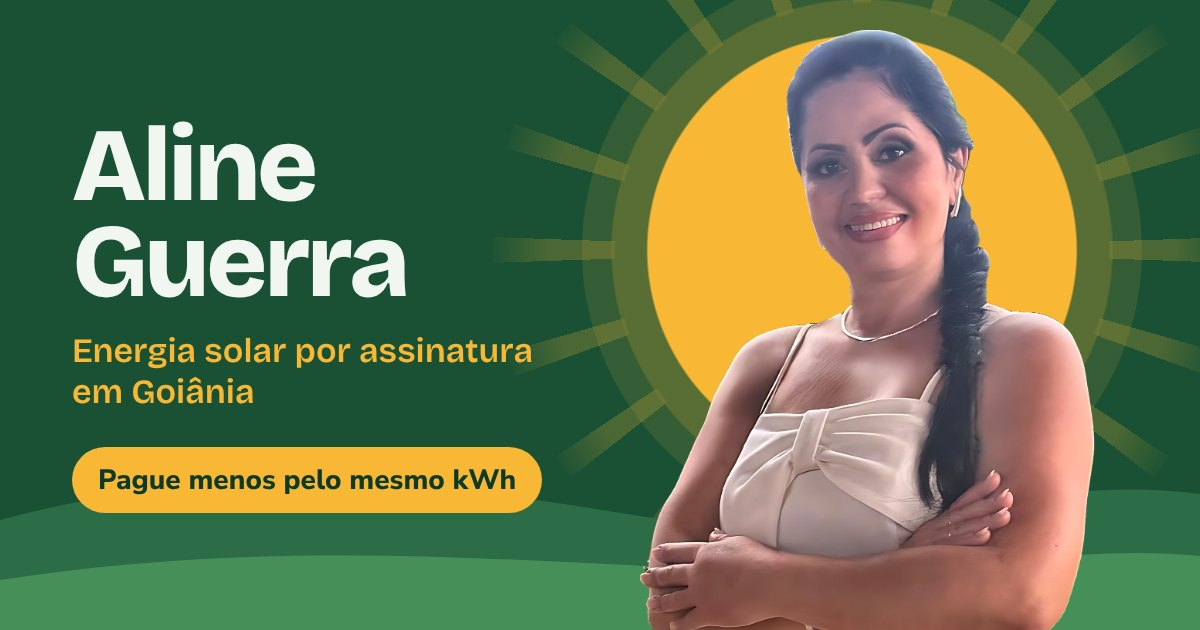
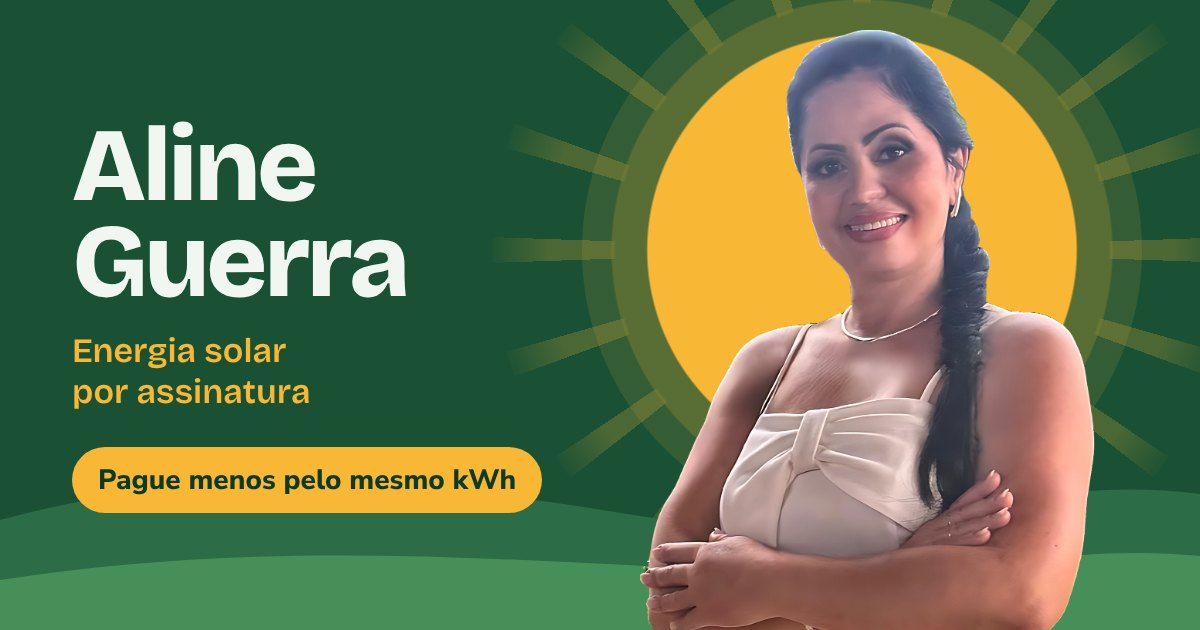
Add files via upload

Changed region(s): [[0.0617, 0.5429, 0.4625, 0.6635]]

diff --git a/index.html b/index.html
@@ -10,7 +10,7 @@
 <meta property="og:description" content="Pague menos pelo mesmo kWh, sem investir nada e sem instalar placas.">
 <meta property="og:type" content="website">
 <meta property="og:url" content="https://gui2k04.github.io/aline-guerra/">
-<meta property="og:image" content="https://gui2k04.github.io/aline-guerra/preview.jpg?v=6">
+<meta property="og:image" content="https://gui2k04.github.io/aline-guerra/preview.jpg?v=7">
 <meta property="og:image:width" content="1200">
 <meta property="og:image:height" content="630">
 <meta property="og:image:alt" content="Aline Guerra, energia solar por assinatura em Goiânia">
@@ -145,10 +145,16 @@
   .lane.grid .bar i{background:var(--grid);width:100%}
   .lane.solar .price{color:var(--leaf)}
   .lane.solar .bar{background:var(--sun-soft)}
-  .lane.solar .bar i{background:var(--sun);width:var(--w,70%)}
+  .lane.solar .bar{position:relative}
+  .lane.solar .bar::before{
+    content:"";position:absolute;left:0;top:0;bottom:0;width:var(--w2,80%);
+    border-radius:999px;background:oklch(0.82 0.155 80 / .45);transform-origin:left center;
+  }
+  .lane.solar .bar i{position:relative;background:var(--sun);width:var(--w,70%)}
   @media (prefers-reduced-motion:no-preference){
     .race.on .bar i{animation:grow 1.1s var(--ease-out) both}
     .race.on .lane.solar .bar i{animation-delay:.3s}
+    .race.on .lane.solar .bar::before{animation:grow 1.1s var(--ease-out) both .3s}
   }
   @keyframes grow{from{transform:scaleX(0)}to{transform:scaleX(1)}}
   .race-note{margin-top:20px;display:flex;gap:12px;align-items:flex-start;font-size:16px}
@@ -196,15 +202,6 @@
   .win p{font-weight:700;font-size:15.5px}
   .win .big{display:block;margin-top:2px;font-family:var(--display);font-weight:800;font-size:clamp(34px,10vw,44px);line-height:1.05;letter-spacing:-.03em;color:var(--leaf)}
   .win .year{margin-top:8px;color:var(--on-sun);font-weight:600}
-  .amount input{
-    width:100%;min-width:0;border:0;background:transparent;color:var(--ink);
-    font:inherit;font-size:50px;line-height:1;letter-spacing:-.03em;padding:0;
-    border-bottom:2px dashed var(--line);
-  }
-  .amount input:focus{outline:none;border-bottom-color:var(--leaf)}
-  .note{padding:16px 18px;margin-top:16px;background:var(--sun-soft);border-radius:18px;font-weight:700;color:var(--on-sun)}
-  .note strong{display:block;font-family:var(--display);font-weight:800;font-size:22px;line-height:1.15;color:var(--leaf);margin-bottom:4px}
-  .lane.solar .bar{background:linear-gradient(to right, transparent 0 70%, oklch(0.82 0.155 80 / .45) 70% 80%, var(--sun-soft) 80%)}
   .fine{margin-top:14px;font-size:13.5px;color:var(--muted);line-height:1.45}
   .calc-band .btn{margin-top:36px}
 
@@ -296,7 +293,7 @@
 <header class="hero">
   <div class="wrap">
     <h1>Aline Guerra</h1>
-    <p class="role">Energia solar por assinatura em Goiânia</p>
+    <p class="role">Energia solar por assinatura</p>
   </div>
   <div class="stage">
     <div class="sun" aria-hidden="true"></div>
@@ -305,8 +302,8 @@
       <path d="M0 78 C90 52 170 64 250 74 S360 56 400 66 V120 H0Z"/>
     </svg>
     <picture class="person">
-      <source srcset="aline.webp?v=6" type="image/webp">
-      <img src="aline.png?v=6" alt="Aline Guerra sorrindo, de vestido branco" width="1290" height="1555" fetchpriority="high" decoding="async">
+      <source srcset="aline.webp?v=7" type="image/webp">
+      <img src="aline.png?v=7" alt="Aline Guerra sorrindo, de vestido branco" width="1290" height="1555" fetchpriority="high" decoding="async">
     </picture>
     <svg class="front-wave" viewBox="0 0 400 56" preserveAspectRatio="none" aria-hidden="true">
       <path d="M0 56 V30 C80 10 160 6 220 18 S340 40 400 22 V56Z"/>
@@ -374,22 +371,20 @@
   <section class="calc-band" id="calculo" aria-labelledby="t-calc">
     <div class="wrap">
       <h2 id="t-calc">Quanto você economizaria</h2>
-      <p class="lead">Arraste ou digite o valor da sua fatura de luz hoje.</p>
+      <p class="lead">Arraste até o valor da sua fatura de luz hoje.</p>
       <div class="bill">
         <div class="stamp" aria-hidden="true">Energia<br>do sol</div>
-        <label for="conta-in">Sua fatura de luz hoje</label>
+        <label for="conta">Sua fatura de luz hoje</label>
         <span class="hint">Valor médio por mês</span>
-        <div class="amount"><span>R$</span><input id="conta-in" class="tnum" type="text" inputmode="numeric" autocomplete="off" value="600" aria-describedby="calc-fine"></div>
-        <input type="range" id="conta" min="0" max="1000" step="1" value="463" aria-label="Valor da fatura" aria-describedby="calc-fine">
+        <div class="amount"><span>R$</span><output id="conta-out" for="conta" class="tnum">600</output></div>
+        <input type="range" id="conta" min="0" max="1000" step="1" value="233" aria-label="Valor da fatura" aria-describedby="calc-fine">
         <div class="chips" role="group" aria-label="Valores comuns de fatura">
-          <button class="chip" type="button" data-v="400">R$ 400</button>
-          <button class="chip" type="button" data-v="800">R$ 800</button>
-          <button class="chip" type="button" data-v="2000">R$ 2 mil</button>
-          <button class="chip" type="button" data-v="7000">R$ 7 mil</button>
+          <button class="chip" type="button" data-v="300">R$ 300</button>
+          <button class="chip" type="button" data-v="600">R$ 600</button>
+          <button class="chip" type="button" data-v="1000">R$ 1.000</button>
+          <button class="chip" type="button" data-v="5000">R$ 5.000</button>
         </div>
         <div class="result" aria-live="polite">
-          <div class="note" id="r-msg" hidden></div>
-          <div id="r-ok">
           <dl>
             <dt>Energia que você usa</dt><dd class="tnum" id="r-kwh">522 kWh</dd>
             <dt>Hoje você paga</dt><dd class="tnum strike" id="r-hoje">R$ 600</dd>
@@ -399,7 +394,6 @@
             <p>Você deixa de pagar</p>
             <strong class="big tnum" id="r-mes">R$ 120 por mês</strong>
             <p class="year">Em um ano, são <strong class="tnum" id="r-ano">R$ 1.440</strong> que ficam com você.</p>
-          </div>
           </div>
         </div>
         <p class="fine" id="calc-fine">Valores aproximados. O desconto exato depende da sua fatura e sai na simulação, sem compromisso.</p>
@@ -414,7 +408,7 @@
 
   <div class="wrap">
     <section class="me" aria-labelledby="t-me">
-      <figure><picture><source srcset="vestido.webp?v=6" type="image/webp"><img src="vestido.jpg?v=6" alt="Aline Guerra de vestido branco" width="1290" height="1541" loading="lazy" decoding="async"></picture></figure>
+      <figure><picture><source srcset="vestido.webp?v=7" type="image/webp"><img src="vestido.jpg?v=7" alt="Aline Guerra de vestido branco" width="1290" height="1541" loading="lazy" decoding="async"></picture></figure>
       <h2 id="t-me">Oi, eu sou a Aline</h2>
       <p class="lead">Me chama no WhatsApp que eu explico como funciona e faço a simulação do seu desconto com você, sem compromisso.</p>
     </section>
@@ -477,13 +471,13 @@
     precoRede: 1.15,                    // R$ por kWh na fatura normal, com impostos
     descontoMin: 0.20,                  // faixa mostrada na comparação do kWh
     descontoMax: 0.30,
-    // Faixas de desconto da calculadora (as regras não aparecem para o cliente)
-    faturaMinima: 250,                  // abaixo disso não atende
+    // Faixas de desconto da calculadora (as regras não aparecem para o cliente).
+    // A régua vai de R$ 250 a R$ 10.000.
     faixas: [
-      { ate: 1000,  desconto: 0.20 },   // R$ 250 a R$ 1.000
-      { ate: 5000,  desconto: 0.22 },   // R$ 1.001 a R$ 5.000
+      { ate: 2000,  desconto: 0.20 },   // R$ 250 a R$ 2.000
+      { ate: 5000,  desconto: 0.22 },   // R$ 2.001 a R$ 5.000
       { ate: 10000, desconto: 0.25 }    // R$ 5.001 a R$ 10.000
-    ],                                  // acima de R$ 10.000: análise pela média de kWh
+    ],                                  // acima de R$ 10.000: análise pela média de kWh (fora da régua)
     msgContato: "Oi, Aline! Vi sua página e quero saber do desconto na minha fatura de luz.",
     msgSimular: "Oi, Aline! Quero simular meu desconto. Vou te mandar uma foto da minha fatura de luz.",
     // Depoimentos REAIS de clientes. Enquanto ficar vazio, a seção não aparece.
@@ -508,6 +502,7 @@
   $("p-solar").textContent = "R$ " + cents(CONFIG.precoRede * (1 - CONFIG.descontoMax)) + " a " + cents(CONFIG.precoRede * (1 - CONFIG.descontoMin));
   $("pct-txt").textContent = Math.round(CONFIG.descontoMin * 100) + "% a " + Math.round(CONFIG.descontoMax * 100) + "%";
   $("bar-solar").style.setProperty("--w", ((1 - CONFIG.descontoMax) * 100).toFixed(1) + "%");
+  $("bar-solar").parentElement.style.setProperty("--w2", ((1 - CONFIG.descontoMin) * 100).toFixed(1) + "%");
   if ("IntersectionObserver" in window) {
     const ro = new IntersectionObserver((es) => es.forEach((e) => {
       if (e.isIntersecting) { $("race").classList.add("on"); ro.disconnect(); }
@@ -516,10 +511,10 @@
   } else { $("race").classList.add("on"); }
 
   /* Calculadora
-     A régua não é linear: o começo vai de R$ 100 a R$ 1.000 com mais precisão,
-     e o fim chega a R$ 12.000. */
-  const range = $("conta"), input = $("conta-in"), chips = [...document.querySelectorAll(".chip")];
-  const pts = [[0,100],[100,250],[550,1000],[850,5000],[1000,12000]];
+     A régua não é linear: a primeira metade cobre R$ 250 a R$ 1.000 (onde está a
+     maioria das faturas) e o restante vai até R$ 10.000. */
+  const range = $("conta"), chips = [...document.querySelectorAll(".chip")];
+  const pts = [[0,250],[500,1000],[800,5000],[1000,10000]];
   const toValor = (pos) => {
     for (let i = 1; i < pts.length; i++) if (pos <= pts[i][0]) {
       const [p0,v0] = pts[i-1], [p1,v1] = pts[i];
@@ -530,7 +525,6 @@
     return pts[pts.length-1][1];
   };
   const toPos = (v) => {
-    v = Math.min(Math.max(v, pts[0][1]), pts[pts.length-1][1]);
     for (let i = 1; i < pts.length; i++) if (v <= pts[i][1]) {
       const [p0,v0] = pts[i-1], [p1,v1] = pts[i];
       return Math.round(p0 + (p1 - p0) * (v - v0) / (v1 - v0));
@@ -539,38 +533,22 @@
   };
   const descontoDe = (v) => {
     for (const f of CONFIG.faixas) if (v <= f.ate) return f.desconto;
-    return null;
+    return CONFIG.faixas[CONFIG.faixas.length - 1].desconto;
   };
   const show = (v) => {
-    const ok = $("r-ok"), msg = $("r-msg");
-    range.style.setProperty("--p", (range.value / 10) + "%");
-    range.setAttribute("aria-valuetext", brl(v) + " por mês");
-    chips.forEach((c) => c.setAttribute("aria-pressed", String(+c.dataset.v === v)));
-    if (!v || v < CONFIG.faturaMinima) {
-      ok.hidden = true; msg.hidden = false;
-      msg.innerHTML = "<strong>Atendemos faturas a partir de " + brl(CONFIG.faturaMinima) + "</strong>Se a sua fatura chega perto disso em alguns meses, me chama que eu olho com você.";
-      return;
-    }
-    const desconto = descontoDe(v);
-    if (desconto === null) {
-      ok.hidden = true; msg.hidden = false;
-      msg.innerHTML = "<strong>Fatura acima de " + brl(CONFIG.faixas[CONFIG.faixas.length-1].ate) + "</strong>Nesse caso eu faço uma análise pela média de kWh que você consome. Me mande sua fatura que eu calculo a sua economia.";
-      return;
-    }
-    ok.hidden = false; msg.hidden = true;
-    const solar = v * (1 - desconto), mes = v - solar;
+    const solar = v * (1 - descontoDe(v)), mes = v - solar;
+    $("conta-out").textContent = v.toLocaleString("pt-BR");
     $("r-kwh").textContent = Math.round(v / CONFIG.precoRede).toLocaleString("pt-BR") + " kWh";
     $("r-hoje").textContent = brl(v);
     $("r-solar").textContent = brl(Math.round(solar));
     $("r-mes").textContent = brl(Math.round(mes)) + " por mês";
     $("r-ano").textContent = brl(Math.round(mes * 12));
+    range.style.setProperty("--p", (range.value / 10) + "%");
+    range.setAttribute("aria-valuetext", brl(v) + " por mês");
+    chips.forEach((c) => c.setAttribute("aria-pressed", String(+c.dataset.v === v)));
   };
-  const lerValor = () => parseInt(input.value.replace(/\D/g, ""), 10) || 0;
-  range.addEventListener("input", () => { const v = toValor(+range.value); input.value = v.toLocaleString("pt-BR"); show(v); });
-  input.addEventListener("input", () => { const v = lerValor(); range.value = toPos(v); show(v); });
-  input.addEventListener("blur", () => { const v = lerValor(); if (v) input.value = v.toLocaleString("pt-BR"); });
-  input.addEventListener("focus", () => input.select());
-  chips.forEach((c) => c.addEventListener("click", () => { const v = +c.dataset.v; range.value = toPos(v); input.value = v.toLocaleString("pt-BR"); show(v); }));
+  range.addEventListener("input", () => show(toValor(+range.value)));
+  chips.forEach((c) => c.addEventListener("click", () => { const v = +c.dataset.v; range.value = toPos(v); show(v); }));
   range.value = toPos(600); show(600);
 
   /* Depoimentos */
